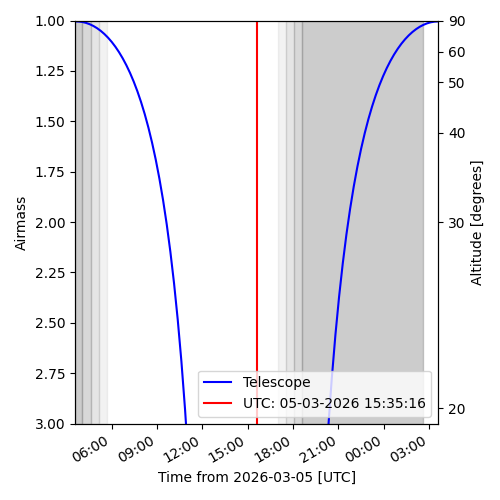
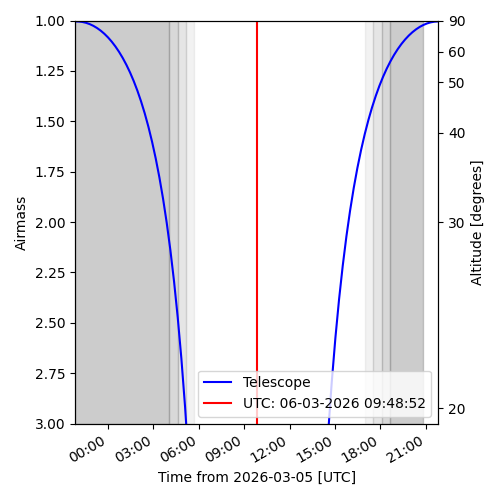
fixied draw polygon of curtains

diff --git a/crac_cloud/static/js/curtains.js b/crac_cloud/static/js/curtains.js
@@ -14,7 +14,7 @@ const config = {
     alpha_min_conf: -12,
     t_base: 340 / 4.25,
     delta_pt_base: 1.9 * (340 / 4.25),
-    tenda_raggio: 110,
+    tenda_raggio: 100,
     ROOF_ANGLE: 20,
 };
 
@@ -26,7 +26,6 @@ let curtainsEnabled = false;
 // =============================================================================
 export function initCurtains() {
     curtainButton = document.getElementById('btn-curtains');
-    console.log('[Curtains] btn-curtains trovato:', curtainButton);
     canvas = document.getElementById('curtainsCanvas');
     ctx = canvas ? canvas.getContext('2d') : null;
 
@@ -51,7 +50,6 @@ export function initCurtains() {
 // UPDATE — chiamato dal coordinator
 // =============================================================================
 export function updateCurtainsUI(data) {
-    console.log('[Curtains] updateCurtainsUI data:', JSON.stringify(data));
     if (!data || !data.curtains) return;
 
     const curtains = data.curtains;
@@ -72,48 +70,39 @@ export function updateCurtainsUI(data) {
 
     // Aggiorna label per ogni tenda
     curtains.forEach(curtain => {
-        const angle = curtain.angle ?? 0;  // usa direttamente l'angolo dal server
+        const angle = curtain.angle ?? 0;
         const status = curtain.status || '';
+        const statusData = STATUS_LABELS_MAP[status] || { text: status };
 
-        if (curtain.orientation === 'East') {        // ← corretto
-            _setText('lbl_altezza_tenda_est',  `${angle.toFixed(1)}°`);
-            _setStatus('lbl_status_tenda_est', { text: status });
-        } else if (curtain.orientation === 'West') { // ← corretto
+        if (curtain.orientation === 'CURTAIN_EAST') {
+            _setText('lbl_altezza_tenda_est',   `${angle.toFixed(1)}°`);
+            _setStatus('lbl_status_tenda_est',  statusData);
+        } else if (curtain.orientation === 'CURTAIN_WEST') {
             _setText('lbl_altezza_tenda_ovest',  `${angle.toFixed(1)}°`);
-            _setStatus('lbl_status_tenda_ovest', { text: status });
+            _setStatus('lbl_status_tenda_ovest', statusData);
         }
     });
 
     // Aggiorna grafica canvas
     if (ctx) {
-        const eastCurtain = curtains.find(c => c.orientation === 'East');
-        const westCurtain = curtains.find(c => c.orientation === 'West');
-        const alphaEast = eastCurtain ? eastCurtain.angle : config.alpha_min_conf;
-        const alphaWest = westCurtain ? westCurtain.angle : config.alpha_min_conf;
+        const eastCurtain = curtains.find(c => c.orientation === 'CURTAIN_EAST');
+        const westCurtain = curtains.find(c => c.orientation === 'CURTAIN_WEST');
+        const alphaEast  = eastCurtain ? (eastCurtain.angle ?? config.alpha_min_conf) : config.alpha_min_conf;
+        const alphaWest  = westCurtain ? (westCurtain.angle ?? config.alpha_min_conf) : config.alpha_min_conf;
         _drawCurtains(alphaEast, alphaWest);
     }
-
-
 }
 
-export function updateRoofBackground(roofStatus) {
-    const bg = document.getElementById('roof-background');
-    if (!bg) return;
-    bg.src = roofStatus === 'ROOF_OPENED'
-        ? '/static/images/background_curtains_open.png'
-        : '/static/images/background_curtains_close.png';
-}
 // =============================================================================
 // CLICK HANDLER
 // =============================================================================
 async function handleCurtainClick() {
-    console.log('[Curtains] Click ricevuto, curtainsEnabled:', curtainsEnabled);
     if (!curtainButton || curtainButton.disabled) return;
 
     curtainButton.disabled = true;
     curtainButton.textContent = 'Invio...';
 
-    const fn = curtainsEnabled ? curtainsApi.enable : curtainsApi.disable;
+    const fn = curtainsEnabled ? curtainsApi.disable : curtainsApi.enable;
     const response = await fn();
     if (response && response.curtains) {
         updateCurtainsUI(response);
@@ -125,28 +114,21 @@ async function handleCurtainClick() {
 // =============================================================================
 // DISEGNO CANVAS (logica invariata, solo refactored)
 // =============================================================================
-function _stepsToAngle(steps) {
-    // Conversione steps → gradi (basata su n_step_corsa=205, max_est=70)
-    const n_step_corsa = 205;
-    const max_alt = 70;
-    const park_alt = 0;
-    const angle = park_alt + (steps / n_step_corsa) * (max_alt - park_alt) + config.alpha_min_conf;
-    return Math.max(config.alpha_min_conf, Math.min(90, angle));
-}
 
 function _drawCurtains(alphaEast, alphaWest) {
     ctx.clearRect(0, 0, canvas.width, canvas.height);
     const leftPoints  = _createPolygon(alphaWest, 'W');
     const rightPoints = _createPolygon(alphaEast, 'E');
-    _drawPolygon(leftPoints,  '#151617ff');
-    _drawPolygon(rightPoints, '#151617ff');
+    _drawPolygon(leftPoints,  'rgb(22, 23, 24)', 'rgb(236, 239, 243)');
+    _drawPolygon(rightPoints, 'rgb(22, 23, 24)', 'rgb(236, 239, 243)');
 }
 
 function _createPolygon(alpha, orientation) {
     const { conv, alpha_min_conf, tenda_raggio: t, delta_pt_base: delta_pt, h, l, ROOF_ANGLE: roofAngle } = config;
-    const i = orientation === 'W' ? 1 : -1;
-    const startAngleOffset = orientation === 'E' ? 180 : 0;
-    const baseAngleSign    = orientation === 'E' ? 1 : -1;
+    const isEast           = orientation === 'E';
+    const i                = isEast ? -1 : 1;
+    const startAngleOffset = isEast ? 180 : 0;
+    const baseAngleSign    = isEast ? 1 : -1;
     const y = Math.round((h / 3) * 1.8);
     const x = Math.round((l / 2) + (i * delta_pt / 2));
     const pt = [x, y];
@@ -167,15 +149,15 @@ function _createPolygon(alpha, orientation) {
     return points;
 }
 
-function _drawPolygon(points, color) {
+function _drawPolygon(points, fillColor, strokeColor = 'white') {
     ctx.beginPath();
     ctx.moveTo(points[0][0], points[0][1]);
     for (let i = 1; i < points.length; i++) ctx.lineTo(points[i][0], points[i][1]);
     ctx.closePath();
-    ctx.fillStyle = color;
+    ctx.fillStyle = fillColor;
     ctx.fill();
-    ctx.strokeStyle = 'white';
-    ctx.lineWidth = 1;
+    ctx.strokeStyle = strokeColor;
+    ctx.lineWidth = 2;
     ctx.stroke();
 }
 
@@ -197,4 +179,12 @@ function _setStatus(id, statusData) {
     el.textContent = statusData.text || '';
     el.style.color = statusData.text_color || '';
     el.style.backgroundColor = statusData.background_color || '';
+}
+
+export function updateRoofBackground(roofStatus) {
+    const bg = document.getElementById('roof-background');
+    if (!bg) return;
+    bg.src = roofStatus === 'ROOF_OPENED'
+        ? '/static/images/background_curtains_open.png'
+        : '/static/images/background_curtains_close.png';
 }
